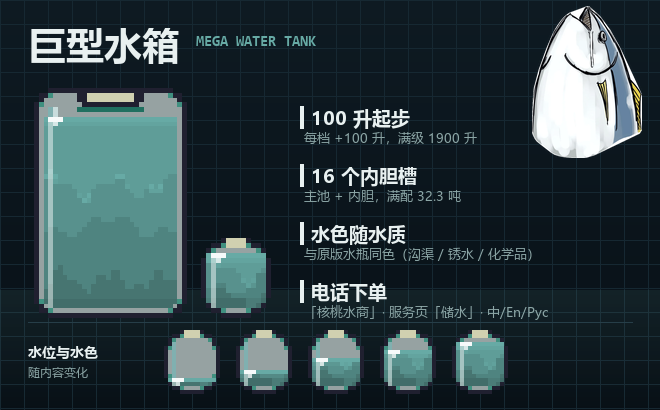
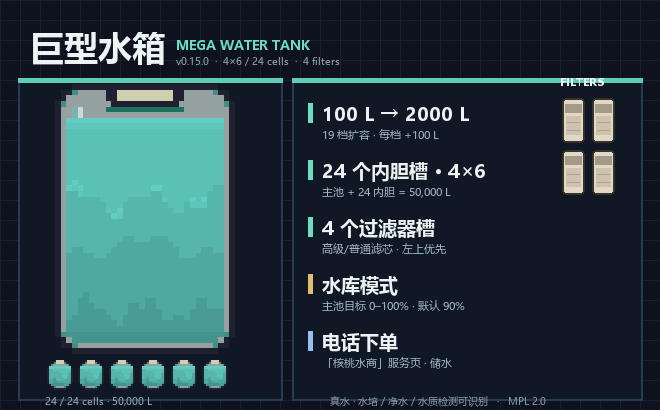
docs(megatank): 0.15.0 release docs, bbcode and preview

diff --git a/src/Core/Ids.cs b/src/Core/Ids.cs
@@ -8,7 +8,7 @@ namespace MegaTank
     internal static class Ids
     {
         internal const string ModId = "megatank";
-        internal const string Version = "0.14.0";
+        internal const string Version = "0.15.0";
 
         internal const string Tank = "mega_water_tank";
         internal const string Cell = "mega_water_cell";
@@ -18,7 +18,7 @@ namespace MegaTank
 
         // ── 容量（0.11.4 起：100 L 起步，逐档 +100 L，0.13.0 起满级 2000 L）──
         // 主池与每个内胆共用同一容量；扩容等级是**存档级全局**（ModData），
-        // 买一次所有容器同时变大。满配：2000 L × 17 个容器 = 34.0 吨。
+        // 买一次所有容器同时变大。满配：2000 L × 25 个容器（主池 + 24 内胆）= 50.0 吨。
         // 注意上限：WaterHelper.InitLiquidContainerItem 对 >2147483 ml 会报错并夹取，
         // 我们的 2000 L 仍低于它；part 值 = ml × 1000 = 2.0e9，仍在 int 内（约 2.1e9 顶）。
 

diff --git a/PlayerReadme.en.md b/PlayerReadme.en.md
@@ -1,18 +1,20 @@
 # Mega Water Tank
 
-Version: 0.14.0 · 2026-11-24
+Version: 0.15.0 · 2026-11-24
 
 ## What it is
 
-A water tank that **starts at 0.1 t (100 L)** and grows through the expansion service up to 2.0 t.
-It takes up to 16 insert cells that grow the same way (34.0 t in total when maxed out).
-The water inside is **real**: hydroponics, purifiers and the water scanner all read it
-through the vanilla rules, no extra setup needed.
+A water tank that **starts at 0.1 t (100 L)** and grows through the expansion service up to **2.0 t** for the main tank and every cell.
+
+- Main grid: **4×6 = 24 insert cells**
+- Right side: **2×2 = 4 filter slots**
+- Fully loaded (tank + 24 cells): **50,000 L (50 t)**
+
+The water inside is **real**: hydroponics, purifiers and the water scanner all read it through the vanilla rules, no extra setup needed.
 
 ## How to get one
 
-Open the phone in the store. Your speed dial already has **Hetao Water Co. #21474836#** (added automatically even on a new game) —
-tap it, and the last line opens the service page. Order from the "Water" tab:
+Open the phone in the store. Your speed dial already has **Hetao Water Co. #21474836#** (added automatically even on a new game) — tap it, and the last line opens the service page. Order from the "Water" tab:
 
 | Service | Price | You get |
 |---|---:|---|
@@ -22,36 +24,61 @@ tap it, and the last line opens the service page. Order from the "Water" tab:
 
 Tanks and cells are **repeatable once a day**; **expansion has no cooldown** — buy it back to back. Deliveries go to the back room.
 
-**Expand Capacity** works on your whole setup at once: each purchase makes your tank
-**and every cell** 100 L larger — no need to upgrade them one by one. Nineteen purchases reach
-the 2.0 t ceiling; the button then greys out and reads "Fully expanded to 2000 L".
+**Expand Capacity** works on your whole setup at once: each purchase makes your tank **and every cell** 100 L larger — no need to upgrade them one by one. Nineteen purchases reach the 2.0 t ceiling; the button then greys out and reads "Fully expanded to 2000 L".
 Any container you obtain later already carries your current level.
 
-> All 16 slots are free — the tank ships with them unlocked. You only pay for cells to fill them.
+> All 24 slots are free — the tank ships with them unlocked. You only pay for cells to fill them.
 
 ## How it behaves
 
-- **Filling**: use the tank on a faucet, a bottle or another container, exactly like vanilla
-- **Overflow**: once the tank is full, extra water flows into the empty cells
-- **Refill**: below 90%, the tank pulls water back from its cells (checked about every 0.25 s)
-- **Machine reserve**: when installed in a Moisture Farm's container slot, it frees space for
-  the expected nightly output before the night settles (Auto mode, 25 L cap), then refills the
-  main tank after production, so the tank reads full during the day
-- **Inspect**: volume, quality and scanner results are shown by the vanilla rules (just like the vanilla water tank); this mod adds a "Total" line and a "Cells" line
-- **Storage**: like the vanilla water tank, it fits into any container it physically fits in (no longer restricted to storage bays)
+### Machine reserve (default)
+
+- **Filling**: use the tank on a faucet, a bottle or another container, exactly like vanilla.
+- **Overflow**: once the tank is full, extra water flows into the empty cells; pouring from a bottle/jug is covered too.
+- **Refill**: below 90%, the tank pulls water back from its cells (about every 0.25 s).
+- **Machine reserve**: when installed in a Moisture Farm's container slot, it frees space for the expected nightly output before the night settles (Auto mode, 25 L cap), then refills after production.
+
+### Reservoir mode (optional)
+
+Turn on "Reservoir mode" in the settings:
+
+- above the target +5%: excess water is moved into the cells;
+- below the target -5%: water is pulled back into the main tank;
+- target is **0–100%**, default **90%**;
+- reservoir mode disables the vanilla 90% refill and machine reserve, so the two policies do not fight.
+
+> Reservoir mode is global: all Mega Water Tanks share one target. 40–80% is recommended; above 90% the main tank has little headroom.
+
+### Filters
+
+The right 2×2 area holds **4 filter cartridges**:
+
+- normal, advanced, hydroreed, kotton and other 1-cell filters are accepted;
+- order is **top-left → top-right → bottom-left → bottom-right**; the next usable filter takes over when one is depleted;
+- `uv_filter` is rejected;
+- filters only clean water **entering the main tank** (faucet, bottle, machine transfer); reservoir/cell circulation is not filtered.
+
+### Other
+
+- **Storage**: like the vanilla water tank, it fits into any container it physically fits in.
+- **Old saves**: cells in the old 4×4 area keep their coordinates; rows 5/6 are new. Filter slots are new.
 
 ## What you will see
 
-- **Mega Water Tank**: 2 cells wide, 3 cells tall, with a sight glass that changes as the level moves
-- **Cell**: a 1-cell canister; slots into the tank, or works as a water bottle on its own
+- **Mega Water Tank**: 2 cells wide, 3 cells tall, with a sight glass that changes as the level moves.
+- **Cell**: a 1-cell canister; slots into the tank, or works as a water bottle on its own.
+- **Filter slots**: four independent slots on the right, using the advanced filter background.
 
 ## Known limitations
 
-- Pixel art (8x density, 11 level steps) that tints with water quality; the 16-slot look is still being checked in-game
-- **Machine reserve only targets the Moisture Farm**: other machine slots keep the vanilla rules; set "Reserve amount" to 0 to turn it off completely
-- Purifiers barely work on a tank this size — purify a small bottle first, then pour it in
-- Cannot be sold to anyone (estimated value follows vanilla: empty tank 350, cell 25, plus 40 per litre of water; still flagged not-for-resale) to keep the economy intact
-- **Do not throw a full tank into the trash**: its cells go with it
+- Pixel art (8x density, 11 level steps) that tints with water quality; the 24-slot look is still being checked in-game.
+- **Target 0% empties the main tank**; consumers that only read the main pool (hydroponics, purifiers) will see an empty tank. **100% leaves no room for machines.**
+- At the default 90%, a 100 L tank has only 10 L headroom; the Moisture Farm's extreme 21.47 L/night may not fit. Use 40–80%.
+- **Stacked cells are skipped by reservoir/overflow**: split them into single cells; the log says so.
+- Filters only clean main-tank inflow; reservoir movement does not purify old dirty water.
+- Purifiers barely work on a tank this size — purify a small bottle first, then pour it in.
+- Cannot be sold to anyone (to keep the economy intact).
+- **Do not throw a full tank into the trash**: its cells go with it.
 
 ## Languages
 
@@ -65,28 +92,29 @@ In the main menu under **Modding → Mod settings**, there are two sections:
 
 | Setting | Default | Effect |
 |---|---|---|
-| Reserve amount (L) | 25 | Upper bound for the water kept free for the Moisture Farm's nightly output; **0 = off**. The farm's hard limit is about 21.5 L/night. Numeric input; values outside 0–50 are clamped |
-| Auto reserve from output | On | Reserves expected output + 0.5 L margin; off uses the fixed amount above |
-| Keep reserve all day | Off | Off: reserve only before the night, then refill after production. On: keep it all day; the tank shows slightly less |
+| Reservoir mode | Off | On: keep the main tank near the target; Off: use machine reserve |
+| Reservoir target (%) | 90 | 0–100 numeric input; 40–80 recommended; no movement within ±5% |
+| Reserve amount (L) | 25 | Machine-reserve upper bound; **0 = off**. Numeric input, clamped to 0–50 |
+| Auto reserve from output | On | Reserve expected output + 0.5 L margin; off uses the fixed amount above |
+| Keep reserve all day | Off | Off: reserve before the night, refill after production. On: keep it all day |
 
-With Auto on, a normal 850 ml output reserves only about 1.35 L, so the tank does not stay visibly short. Changes apply on the next machine run/nightly settle; no restart needed.
+- In reservoir mode, `Reserve amount / Auto / Keep all day` do not apply;
+- In machine-reserve mode, `Reservoir mode / Reservoir target` do not apply;
+- Changes apply on the next machine run/nightly settle; no restart needed.
 
 ### Diagnostics
 
 | Setting | Default | Effect |
 |---|---|---|
-| Verbose log | Off | When on, writes init / patch-install / item-registration messages to `Player.log`; enable only when troubleshooting |
+| Verbose log | Off | When on, writes init / patch-install / item-registration / reservoir summary messages to `Player.log`; enable only when troubleshooting |
 
 With it off the mod stays quiet during normal play. Warnings and errors are **always** logged regardless of this switch.
 
 ## License and origin
 
 - **License: MPL 2.0** - source repository: `https://github.com/Heto-XD/MegaWaterTank`
-- Most of the **code, artwork and text of this mod were produced with generative AI
-  assistance**; everything was reviewed and play-tested by a human. See `AI-DISCLOSURE.md`
-  in the repository for the scope and the copyright position.
-- Unofficial community mod, not affiliated with the developer. No game assets are included
-  and no third-party libraries are bundled.
+- Most of the **code, artwork and text of this mod were produced with generative AI assistance**; everything was reviewed and play-tested by a human. See `AI-DISCLOSURE.md` in the repository for the scope and the copyright position.
+- Unofficial community mod, not affiliated with the developer. No game assets are included and no third-party libraries are bundled.
 
 ## Uninstall
 

diff --git a/PlayerReadme.md b/PlayerReadme.md
@@ -1,11 +1,15 @@
 # 巨型水箱（Mega Water Tank）
 
-版本：0.14.0 · 2026-11-24
+版本：0.15.0 · 2026-11-24
 
 ## 这是什么
 
-一个巨型储水罐，**0.1 吨（100 升）起步**，靠扩容服务逐档加，最多能到 2.0 吨；
-罐内最多可插 16 个内胆，同样从 0.1 吨扩到 2.0 吨（满配合计 34.0 吨）。
+一个巨型储水罐，**0.1 吨（100 升）起步**，靠扩容服务逐档加，主池和每个内胆最多都能到 **2.0 吨**。
+
+- 主格 **4×6 = 24 个内胆槽**；
+- 右侧 **2×2 = 4 个过滤器槽**；
+- 满配置（主池 + 24 个内胆）合计 **50,000 升（50 吨）**。
+
 它装的是**真实的水**：水培机、净水机、水质检测仪都按原版规则识别它，不需要额外设置。
 
 ## 怎么拿到
@@ -25,30 +29,60 @@
 不用一个个升。买满 19 次就到 2.0 吨上限，届时光标停上去会显示「已扩容至上限 2000 L」，
 按钮变灰不能再点。新买到的容器自动带入你当前的容量等级。
 
-> 16 个槽位不需要解锁——主池自带，你只是需要往里面塞内胆。
+> 24 个槽位不需要解锁——主池自带，你只是需要往里面塞内胆。
 
 ## 它怎么工作
 
-- **灌水**：拿主池去水龙头、水瓶或别的容器上倒水，和原版容器一样操作
-- **溢出**：主池装满后继续灌，多出来的水会自动流进槽里的空内胆
-- **回补**：主池低于 90% 时，会自动从内胆抽水补满（约每 0.25 秒检查一次）
+### 机器预腾模式（默认）
+
+- **灌水**：拿主池去水龙头、水瓶或别的容器上倒水，和原版容器一样操作。
+- **溢出**：主池装满后继续灌，多出来的水会自动流进空内胆；从瓶子/水罐倒水也支持。
+- **回补**：主池低于 90% 时，自动从内胆抽水补满。
 - **机器预腾**：装在水分收集器（湿气农场）的容器槽里时，夜间结算前按当夜预期产量腾出空间
-  （自动模式，上限 25 升），机器生产后把剩余安全余量回填主池；白天主池保持满
-- **查看**：水量、水质和扫描结果由原版规则显示（和原版水箱一样）；本 mod 额外追加「合计」与「内胆」两行
-- **存放**：和原版水箱一样，可以放进任何装得下的容器（不再限制只能放储藏区）
+  （自动模式，上限 25 升），机器生产后把剩余安全余量回填主池。
+- **查看**：水量、水质和扫描结果由原版规则显示；本 mod 额外追加「合计」与「内胆」两行。
+
+### 水库模式（可选）
+
+在设置里打开「水库模式」后，主池会维持在目标水位附近：
+
+- **高于目标 +5%**：自动把多出来的水存入内胆；
+- **低于目标 -5%**：自动从内胆回补主池；
+- 目标可在 **0–100%** 之间填写，默认 **90%**；
+- 水库模式下，原版 90% 回补和机器预腾会自动停用，避免两套逻辑互相搬水。
+
+> 水库模式是全局设置，所有巨型水箱共用同一个目标水位。推荐 40–80%；90% 以上时主池余量较少。
+
+### 过滤器
+
+右侧 2×2 过滤器槽可以放 **4 个滤芯**：
+
+- 支持普通、高级、hydroreed、kotton 等 1 格滤芯；
+- 按 **左上 → 右上 → 左下 → 右下** 的顺序生效，当前滤芯耗尽后自动用下一个；
+- `uv_filter` 不能放入；
+- 过滤器只净化**进入主池**的水（水龙头、瓶子、机器倒水）；水库/内胆之间的搬水不经过滤芯。
+
+### 其它
+
+- **存放**：和原版水箱一样，可以放进任何装得下的容器（不再限制只能放储藏区）。
+- **旧存档**：4×4 旧主格内的内胆坐标不变，新增第 5/6 行空槽；过滤器槽是新增的。
 
 ## 你会看到什么
 
-- **巨型水箱**：2 格宽、3 格高，正面是水位视窗，水位变化时贴图会跟着换档
-- **内胆**：1 格大小的小水罐，插进主池扩容，也可以单独当水壶用
+- **巨型水箱**：2 格宽、3 格高，正面是水位视窗，水位变化时贴图会跟着换档。
+- **内胆**：1 格大小的小水罐，插进主池扩容，也可以单独当水壶用。
+- **过滤器槽**：窗口右侧 4 个独立槽位，使用高级滤水器背景。
 
 ## 已知限制
 
-- 贴图为像素风（8 倍像素密度、11 档水位，并会随水质变色）；16 槽下的实际观感仍在实机确认中
-- **机器预腾只针对水分收集器（湿气农场）**：其它机器槽仍按原版规则处理；把「预留水量」设为 0 可完全关闭预腾
-- 主池和净水机：原版净水机单次处理量很小，大水箱基本净化不动，建议先净化小瓶再倒进去
-- 不能卖给任何人（估价按原版口径：空主池 350、内胆 25，满水再加 40/升；仍带不可转售标记），这是为了不破坏经济
-- 装满水的主池**不要丢进垃圾桶**：里面的内胆会跟着一起消失
+- 贴图为像素风（8 倍像素密度、11 档水位，并会随水质变色）；24 槽下的实际观感仍需实机确认。
+- **水库目标 0% 会把主池清空**，水培/净水等只读主池的系统会看到空池；**100% 则不给机器留空间**。
+- 默认 90% 在 100 L 小水箱上只剩 10 L 余量，湿气农场极端 21.47 L/夜可能不够；建议 40–80%。
+- **内胆成堆会被水库/溢出跳过**：请把内胆拆成单件；成堆时日志会明确提示。
+- 过滤器只过滤进入主池的水；水库在内胆/主池之间搬水不会净化旧脏水。
+- 主池和净水机：原版净水机单次处理量很小，大水箱基本净化不动，建议先净化小瓶再倒进去。
+- 不能卖给任何人（估价按原版口径），这是为了不破坏经济。
+- 装满水的主池**不要丢进垃圾桶**：里面的内胆会跟着一起消失。
 
 ## 语言
 
@@ -62,17 +96,21 @@
 
 | 设置 | 默认 | 作用 |
 |---|---|---|
-| 预留水量（升） | 25 | 为水分收集器夜间产量预留的水量上限；**0 = 关闭**。湿气农场单台极限约 21.5 升/夜。数字输入框，超出 0–50 会自动夹回 |
+| 水库模式 | 关 | 开：主池维持目标水位；关：使用机器预腾 |
+| 水库目标水位（%） | 90 | 0–100，数字输入框；推荐 40–80；目标 ±5% 内不搬水 |
+| 预留水量（升） | 25 | 机器预腾模式下的预留上限；**0 = 关闭**。数字输入框，超出 0–50 自动夹回 |
 | 按当夜产量自动预留 | 开 | 按机器当夜预期产量 + 0.5 升安全余量预留；关则固定使用上面的升数 |
-| 全天保持预留 | 关 | 关：只在夜间预腾并在生产后回填主池；开：全天维持预留，主池会显示略少 |
+| 全天保持预留 | 关 | 关：只在夜间预腾并在生产后回填主池；开：全天维持预留 |
 
-自动模式在常态 850 毫升产量下只会腾出约 1.35 升，不会让主池长期空一大截。设置在下次机器运行/结算时生效，不用重启。
+- 水库模式下，`预留水量 / 自动 / 全天保持` 不生效；
+- 机器预腾模式下，`水库模式 / 水库目标` 不生效；
+- 设置在下一次机器运行/结算时生效，不用重启。
 
 ### 诊断
 
 | 设置 | 默认 | 作用 |
 |---|---|---|
-| 详细日志 | 关 | 打开后 `Player.log` 会输出初始化、补丁安装、物品注册等诊断信息；排障时再开 |
+| 详细日志 | 关 | 打开后 `Player.log` 会输出初始化、补丁安装、物品注册、水库搬水汇总等诊断信息；排障时再开 |
 
 默认关闭时，日常游玩不会往日志里刷本 mod 的信息；警告和异常**始终**会记录，不受这个开关影响。
 

diff --git a/README.md b/README.md
@@ -3,12 +3,14 @@
 A water-storage mod for **Probably Stolen** (Unity / Mono, official built-in ModLoader).
 一个给《Probably Stolen》用的储水 mod（官方内置 ModLoader）。
 
-当前版本：**0.14.0** · 2026-11-24
+当前版本：**0.15.0** · 2026-11-24
 
-- **Main tank + 16 insert cells** — 0.1 t (100 L) to start, 2.0 t at max, **34.0 t** fully loaded
-- **Overflow / refill** — extra water automatically flows into the cells; the main tank pulls it back when it drops below 90%
-- **Machine reserve** — when installed in a Moisture Farm slot, it reserves the expected nightly output (Auto mode, 25 L cap) and refills afterwards, so no water is wasted
-- **Configurable reserve** — 0–50 L numeric input with clamping, auto output-based or fixed, and optional all-day reserve
+- **Main tank + 24 insert cells** — 0.1 t (100 L) to start, 2.0 t at max, **50.0 t** fully loaded (4×6 cells)
+- **Overflow / refill** — extra water automatically flows into the cells; the main tank pulls it back below 90% in machine-reserve mode
+- **Machine reserve** — when installed in a Moisture Farm slot, it reserves the expected nightly output (Auto mode, 25 L cap) and refills afterwards
+- **Reservoir mode** — optional global mode: keep the main tank at a 0–100% target (default 90%), moving excess to cells and refilling below the dead band
+- **Filter slots** — 2×2 on the right; four 1-cell filters, top-left first, advanced filter background
+- **Configurable** — numeric inputs with clamping; reservoir target, machine reserve amount, auto mode and all-day reserve
 - **Real water** — hydroponics, purifiers and the water scanner recognise it through the vanilla rules
 - **Vanilla-style item data** — container value 350 (tank) / 25 (cell), metal/plastic sounds, and it fits into any container the vanilla tank fits in
 - **Vanilla tooltip** — volume, quality and scanner results come from the vanilla water-container tooltip; the mod only appends a "Total" and a "Cells" line
@@ -33,15 +35,15 @@ Mods\megatank\
 
 3. Start the game. The main menu **Modding** panel should list *巨型水箱 / Mega Water Tank*.
 
-Uninstalling is safe: tanks left in a save become inert placeholder items, and the phone
-contact is removed automatically (the mod never stores it in the save).
+Uninstalling is safe: tanks left in a save become inert placeholder items, and the phone contact is removed automatically (the mod never stores it in the save).
 
 ## Compatibility
 
 Tested together with Item Stacking, Container Manager, Item Details and Water Machine Fix.
 Filled containers are frozen while stacked (same rule as vanilla liquid containers).
-Item Details keeps its water analysis for ordinary bottles; this mod keeps its own tooltip
-for its two items.
+Item Details keeps its water analysis for ordinary bottles; this mod keeps its own tooltip for its two items.
+
+> Stacked cells are skipped by reservoir/overflow because liquid is an absolute per-item amount. Split cells into single items before relying on reservoir mode.
 
 ## Build from source
 
@@ -50,7 +52,7 @@ Requires the .NET SDK and a copy of the game's `Managed\` folder for assembly re
 
 ```bash
 dotnet build MegaTank.csproj -c Release
-dotnet run --project tests/PureCheck/PureCheck.csproj   # 51 pure-logic assertions
+dotnet run --project tests/PureCheck/PureCheck.csproj   # 58 pure-logic assertions
 ```
 
 > The optional symbol check compares game API usage against a local decompiled copy

diff --git a/CHANGELOG.md b/CHANGELOG.md
@@ -1,6 +1,15 @@
 # 更新日志
 
-## 未发布 — 0.15.0-dev / Phase 2（水库模式）
+## 0.15.0 — 2026-11-24
+
+**巨型水箱 0.15.0：4×6 / 24 个内胆槽、4 个过滤器槽、全局水库模式、机器预腾配置化。**
+
+- **实机验证（2026-11-24，游戏 1.0.0.16）**：24 格 / 4 过滤槽 / 水库模式 / 机器预腾均通过；
+  `延迟补丁 5/5`、无 `[MegaTank]` 异常；水库与 R2/R3 互斥、倒水溢出进内胆、过滤器自动切换均已验证。
+- **本版总容量**：主池 2000 L + 24 × 2000 L = **50,000 L（50 吨）**。
+- **旧档兼容**：主格 inventory 索引仍为 1，旧 4×4 内胆坐标不变；新增第 5/6 行与过滤槽索引 2–5。
+
+### Phase 2（水库模式）
 
 **水量自动化新增全局「水库模式」：主池维持目标水位，多余存子胆、不足从子胆回补。**
 
@@ -25,12 +34,9 @@
   - `0.12.0 属性迁移` 日志加 30 秒节流并输出具体变化字段（价格/类型/tag），用于定位是否每 5 秒重复；
   - 水库搬水日志带 `[identifier#uniqueId]`；`倒水溢出` 警告带源/目标 id，并注明“水留在源容器 / 临时瓶会被销毁”。
 - **过滤范围保持不变**：只过滤进入主池的 AddWater/TransferLiquid；水库搬水不经过滤芯。
-- **未做发布相关更新**：版本号仍是 0.14.0 dev；PlayerReadme/工坊/manifest 描述等发布内容暂不动。
 - **构建门禁**：0 警告 0 错误；`check-api-compat` 389 members / 58 types missing 0；PureCheck 58/58。
-- **实机验证**：待 2026-11-24 默认 90%、目标 0/50/100、水位双向调平、R2/R3 不打架、夜间湿气农场、
-  读档、4×6/24 格。
 
-## 未发布 — 0.15.0-dev / Phase 1.1（过滤器槽 + 4×6 主格）
+### Phase 1.1（过滤器槽 + 4×6 主格）
 
 **水箱窗口右侧新增 2×2 过滤器槽（4 个滤芯），主格扩为 4×6 = 24 格，接入原版过滤机制。**
 
@@ -52,10 +58,7 @@
 - **主格查找加固**：`TankRuntime.Cells/CellStats` 按 `mega_tank_cells` 标识找主格。
 - **过滤范围**：只过滤进入主池的水（AddWater / TransferLiquid）；R2/R3/水库模式的
   `LiquidMove`、`AddLiquid` 不经过滤芯。
-- **未做发布相关更新**：版本号仍是 0.14.0 dev；PlayerReadme/工坊/manifest 描述等发布内容暂不动。
-- **构建门禁**：0 警告 0 错误；`check-api-compat` 356 members / 58 types missing 0；PureCheck 55/55。
-- **实机验证**：待 2026-11-24 旧档内胆读档、4×6 新格、滤芯放置/过滤/耗尽切换、
-  水箱满时外部倒水自动进内胆。
+- **构建门禁（Phase 1.1 时点）**：0 警告 0 错误；`check-api-compat` 356 members / 58 types missing 0；PureCheck 55/55。
 
 ## 0.14.0 — 2026-11-24
 
